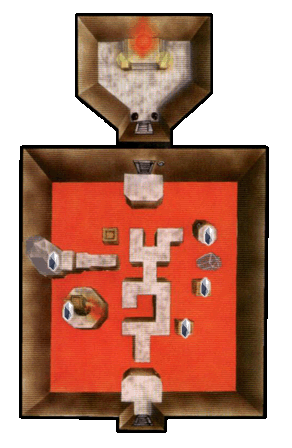
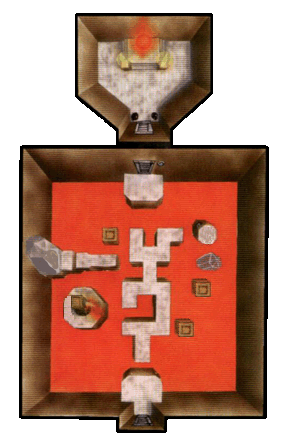
Add support for alternate maps for MQ; added silver rupees for MQ fire trial

diff --git a/JavaScript/Data/mqDungeonData.js b/JavaScript/Data/mqDungeonData.js
@@ -5562,6 +5562,7 @@ let MQDungeons = {
         MapGroup: MapGroups.DUNGEONS,
         IsMasterQuest: true,
         Floors: ["MN", "FST", "WTR", "SHW", "FIR", "LIT", "SPT"],
+        MqMapFloors: ["FIR"],
         StartingFloorIndex: 0,
         UseAdultAge: function() { return !Settings.RandomizerSettings.shuffleDungeonEntrances; },
         _canCompleteTrials: function(age) {
@@ -5589,14 +5590,7 @@ let MQDungeons = {
                             return Equipment.HOVER_BOOTS.playerHas || (Items.FAIRY_BOW.playerHas && Items.HOOKSHOT.playerHas);
                         }
                     },
-                    fireTrialEnd: {
-                        Age: Age.ADULT,
-                        RequiredItems: [{item: Equipment.STRENGTH, upgradeString: "3"}],
-                        RequiredChoiceOfItems: [Items.HOOKSHOT, Equipment.HOVER_BOOTS],
-                        CustomRequirement: function(age) {
-                            return Settings.GlitchesToAllow.ganonFireNoTunic || Equipment.GORON_TUNIC.playerHas;
-                        }
-                    },
+                    fireRoomEarly: {},
                     lightRoom1: {
                         Age: Age.ADULT,
                         CustomRequirement: function(age) {
@@ -5921,6 +5915,74 @@ let MQDungeons = {
                     }
                 }
             },
+            fireRoomEarly: {
+                Exits: {
+                    fireRoomLate: {
+                        CustomRequirement: function(age) {
+                            return Settings.GlitchesToAllow.ganonFireNoTunic || (age === Age.ADULT && Equipment.GORON_TUNIC.playerHas);
+                        }
+                    }
+                },
+                ItemLocations: {
+                    "Fire Silver Rupee Above Rising Platform": {
+                        ItemGroup: ItemGroups.SILVER_RUPEE,
+                        MapInfo: { x: 219, y: 199, floor: "FIR" },
+                        Age: Age.EITHER,
+                        Order: 16.1,
+                        LongDescription: "At the fire trial, there's a 2x2 section of stationary platforms near the start. Get to the back right one and ride it up - the rupee is there. You may have to backflip to get it."
+                    }
+                }
+            },
+            fireRoomLate: {
+                UseAdultAge: function() {
+                    return !Settings.GlitchesToAllow.ganonFireNoTunic;
+                },
+                Exits: {
+                    fireTrialEnd: {
+                        Map: "Ganon's Castle",
+                        SilverRupeeIndex: 0,
+                        Age: Age.ADULT,
+                        CustomRequirement: function(age) {
+                            let hasGoldenGauntlets = Equipment.STRENGTH.currentUpgrade === 3;
+                            let hasLongshot = Items.HOOKSHOT.currentUpgrade === 2;
+                            let canGetToDoor = hasLongshot || (hasGoldenGauntlets && Equipment.HOVER_BOOTS.playerHas);
+                            let canUnbarDoor = Settings.RandomizerSettings.shuffleSilverRupees || Equipment.STRENGTH.currentUpgrade === 3;
+                            return canGetToDoor && canUnbarDoor;
+                        }
+                    }
+                },
+                ItemLocations: {
+                    "Fire Silver Rupee Under Silver Pillar": {
+                        ItemGroup: ItemGroups.SILVER_RUPEE,
+                        MapInfo: { x: 233, y: 143, floor: "FIR" },
+                        Age: Age.ADULT,
+                        Order: 16.2,
+                        LongDescription: "Navigate to the back island with the beamos and giant silver pillar. Lift it with your golden gauntlets to get to the rupee.",
+                        RequiredItems: [{item: Equipment.STRENGTH, upgradeString: "3"}],
+                    },
+                    "Fire Silver on Back Left Platform": {
+                        ItemGroup: ItemGroups.SILVER_RUPEE,
+                        MapInfo: { x: 132, y: 166, floor: "FIR" },
+                        Age: Age.EITHER,
+                        Order: 16.3,
+                        LongDescription: "Navigate around to the long platform in the back left part of the room. The rupee is in the middle of the circular section."
+                    },
+                    "Fire Silver Rupee by Left Moving Platform": {
+                        ItemGroup: ItemGroups.SILVER_RUPEE,
+                        MapInfo: { x: 313, y: 210, floor: "FIR" },
+                        Age: Age.EITHER,
+                        Order: 16.4,
+                        LongDescription: "Navigate around to the long platform in the back left part of the room. Jump on the moving platform to the south to get to the rupee."
+                    },
+                    "Fire Silver Rupee in Back Left Corner": {
+                        ItemGroup: ItemGroups.SILVER_RUPEE,
+                        MapInfo: { x: 233, y: 143, floor: "FIR" },
+                        Age: Age.EITHER,
+                        Order: 16.5,
+                        LongDescription: "The intended way to get this rupee is to throw the silver pillar on the island south of the longer island. You can then ride the middle stationary platform to get to the rupee. You can also just ride that platform and jump to the rupee without throwing the pillar (roll jump at a 45 degree angle at the corner and hold forward), but you'll also void out in the lava!"
+                    }
+                }
+            },
             fireTrialEnd: {
                 Exits: {},
                 ItemLocations: {
@@ -5932,7 +5994,7 @@ let MQDungeons = {
                         MapInfo: { x: 178, y: 77, floor: "FIR" },
                         Age: Age.ADULT,
                         Order: 17,
-                        LongDescription: "Enter the fire trial - you must grab all the silver rupees to enter the room with the pots."
+                        LongDescription: "Enter the fire trial - you must grab all the silver rupees to enter the room with the pots. You can get to the door by either longshotting the hookshot target, or by using hover boots from the thrown silver pillar near the door."
                     }
                 }
             },

diff --git a/JavaScript/mapUI.js b/JavaScript/mapUI.js
@@ -125,9 +125,16 @@ let MapUI = {
 		if (floor === "ANY") {
 			floor = "HYR"; // This is only used by the Castle map currently... redo this if it ends up being important
 		}
-		
+
 		let mapImageAndIcons = document.getElementById("mapImageAndIcons");
 		let imageName = this._currentFloor ? `${mapName} - ${floor}` : mapName;
+
+		// Set up alternate floor images for MQ dungeons
+		let mapData = MapLocations[mapName];
+		if (mapData.IsMasterQuest && mapData.MqMapFloors && mapData.MqMapFloors.includes(floor)) {
+			imageName = `MQ ${imageName}`;
+		}
+
 		mapImageAndIcons.style.backgroundImage = `url("Images/Maps/${imageName}.png")`;
 		
 		this._iconDivs = {};
